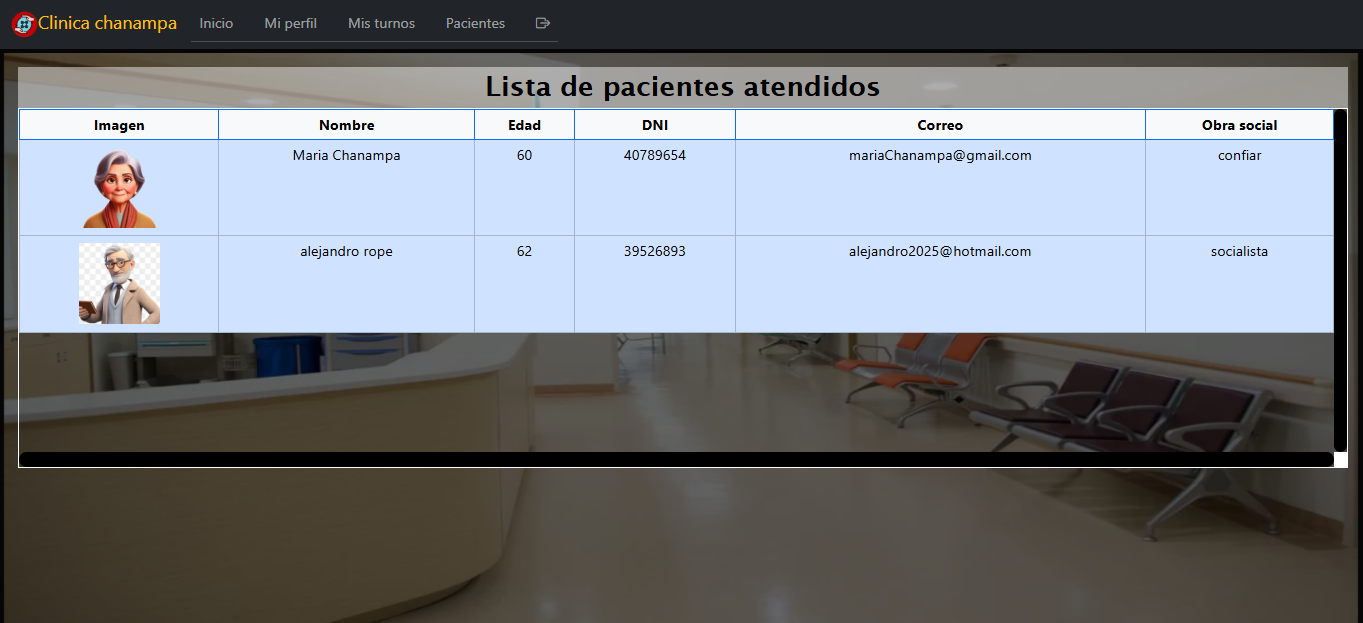
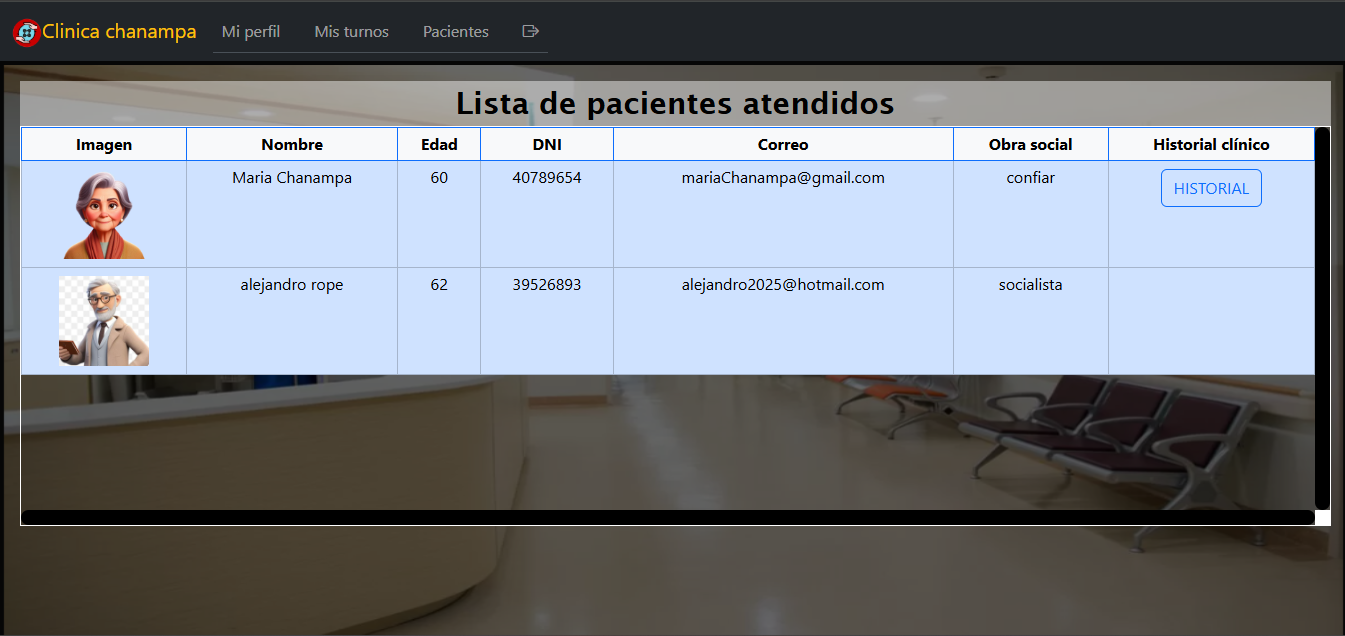
Modificaciones finales

diff --git a/src/app/pages/informes/informes.component.ts b/src/app/pages/informes/informes.component.ts
@@ -236,6 +236,11 @@ export class InformesComponent {
     if(logs)
     {
 
+      const margenX = 5;
+      let posY = 100;
+      const altoLinea = 10;
+      const altoPagina = 290; // A4 es 297mm, dejamos margen
+
       const doc = new jsPDF();
 
       const titulo: string = "Registro de logs de usuarios al sistema";
@@ -246,7 +251,7 @@ export class InformesComponent {
 
       for(let log of this.listaLogs)
       {
-        lineas.push("Usuario: " + log.usuario.nombre + " " + log.usuario.apellido + " (" + log.usuario.tipo + ") | " + log.fecha + ":" + log.hora);
+        lineas.push("Usuario: " + log.usuario.nombre + " " + log.usuario.apellido + " (" + log.usuario.tipo + ") | " + this.ModificarFecha(log.fecha)  + " " + log.hora);
       }
 
       this.convertirImagenUrlABase64(logo).then((imagenBase64) => {
@@ -261,7 +266,17 @@ export class InformesComponent {
           // Texto con salto de línea
           doc.setFontSize(20);
           doc.setFont('Arial','normal','bold');
-          doc.text(lineas, 5, 100); // x = 5, y = 100 (esto hara que el texto quede debajo de la imagen)
+          for(let linea of lineas)
+          {
+            if(posY > altoPagina)
+            {
+              doc.addPage();
+              posY = 20;
+            }
+
+            doc.text(linea, margenX, posY); // x = 5, y = 100 (esto hara que el texto quede debajo de la imagen)
+            posY += altoLinea;
+          }
 
           // Guardar el PDF
           doc.save('logs_sistema_clinica_chanampa.pdf');
@@ -302,6 +317,11 @@ export class InformesComponent {
       });  
 
     }
+  }
+
+  ModificarFecha(fecha: string) : string
+  {
+    return fecha.split("-")[2] + "/" + fecha.split("-")[1] + "/" + fecha.split("-")[0];
   }
 
   // Función para convertir una imagen a base64
@@ -669,49 +689,6 @@ export class InformesComponent {
         });
       }
     }
-
-    // const ctx = this.graficoCanvas.nativeElement as HTMLCanvasElement;
-
-    // if(!this.graficoCanvas) return;
-
-    // const ctx = this.graficoCanvas.nativeElement.getContext('2d');
-
-    // conteo de cantidad de turnos por especialidad
-    
-        // const imagenesFiltradas = this.imagenes.filter(img => img.cantidad_likes > 0);  
-        // const labels = this.listaTurnos.map(img => `${img.}`);
-        // const data = imagenesFiltradas.map(img => img.cantidad_likes);
-    
-        // new Chart(ctx, {
-        //     type: 'pie',
-        //     data: {
-        //       labels: especialidades,
-        //       datasets: [
-        //         {
-        //           label: 'Cantidad de turnos',
-        //           data: cantidades,
-        //           backgroundColor: ['#4e73df', '#1cc88a', '#36b9cc', '#f6c23e']
-        //         }
-        //       ]
-        //     },
-        //     options: {
-        //       responsive: true,
-        //       plugins: {
-        //         datalabels: {
-        //           color: 'black',
-        //           font: {
-        //             weight: 'bold',
-        //             size: 20,
-        //           }
-        //         },
-        //         legend: {
-        //           position: 'bottom'
-        //         }
-        //       }
-        //     },
-        //     plugins: [ChartDataLabels]
-        //   });
-
   }
   
   onMouseEnter(numberButton: number = 1)

diff --git a/src/app/pages/registro/registro.component.html b/src/app/pages/registro/registro.component.html
@@ -38,15 +38,21 @@
                 }
                 @else if(this.db.tipoUsuario == "administrador")
                 {
-                    <button class="contenedor-especialista registrosAdmin" routerLink="/registros/registro-especialista">
-                        <div class="emoji">🧑🏽⚕</div>ESPECIALISTA
-                    </button>
-                    <button class="contenedor-paciente registrosAdmin" routerLink="/registros/registro-paciente">
-                        <div class="emoji">😷</div>PACIENTE
-                    </button>
-                    <button class="contenedor-paciente registrosAdmin" routerLink="/registros/registro-administrador">
-                        <div class="emoji">🧑🏽💻</div>ADMINISTRADOR
-                    </button>
+                    <div [@routeAnimations]="prepareRoute(outlet)" class="router-container">
+                        <div class="botones-navegacion">
+                            <button class="contenedor-especialista registrosAdmin" (click)="irAregistroESP()">
+                                <div class="emoji">🧑🏽⚕</div>ESPECIALISTA
+                            </button>
+                            <button class="contenedor-paciente registrosAdmin" (click)="irAregistroPAC()">
+                                <div class="emoji">😷</div>PACIENTE
+                            </button>
+                            <button class="contenedor-paciente registrosAdmin" (click)="irAregistroAdm()">
+                                <div class="emoji">🧑🏽💻</div>ADMINISTRADOR
+                            </button>
+                        </div>
+    
+                        <router-outlet #outlet="outlet"></router-outlet>
+                    </div>
                 }
             </div>
             <footer style="margin-top: 2rem;">

diff --git a/src/app/pages/historial-clinico/historial-clinico.component.ts b/src/app/pages/historial-clinico/historial-clinico.component.ts
@@ -277,6 +277,11 @@ export class HistorialClinicoComponent {
     const formato = fecha.toISOString().split('T')[0]; // yyyy-mm-dd
     const hora = hoy.toTimeString().substring(0, 5); // Formato "HH:MM"
 
+    const margenX = 20;
+    let posY = 120;
+    const altoLinea = 10;
+    const altoPagina = 290; // A4 es 297mm, dejamos margen
+
     const doc = new jsPDF();
 
     let lista_historial_medico : any[] = [];
@@ -312,6 +317,7 @@ export class HistorialClinicoComponent {
         {
           lineas.push(clave.toUpperCase() + ': ' + historial_propio.datoDinamico[clave]);
         }
+        lineas.push("");
       }
 
       lineas.push("");
@@ -332,7 +338,17 @@ export class HistorialClinicoComponent {
           // Texto con salto de línea
           doc.setFontSize(20);
           doc.setFont('Arial','normal','bold');
-          doc.text(lineas, 20, 100); // x = 20, y = 100 (esto hara que el texto quede debajo de la imagen)
+          for(let linea of lineas)
+          {
+            if(posY > altoPagina)
+            {
+              doc.addPage();
+              posY = 20;
+            }
+
+            doc.text(linea, margenX, posY); // x = 5, y = 100 (esto hara que el texto quede debajo de la imagen)
+            posY += altoLinea;
+          }
 
           // Guardar el PDF
           doc.save('historial_medico.pdf');

diff --git a/src/app/pages/mi-perfil/mi-perfil.component.html b/src/app/pages/mi-perfil/mi-perfil.component.html
@@ -59,7 +59,8 @@
                                 }                                
                                 <label>Primero seleccione la duración de los turnos:</label>
                                 <select class="form-select" aria-label="Duración de consulta" id="duracionElegida">
-                                <option selected value="30">30 min</option>
+                                <option selected value="0">0 min</option>
+                                <option value="30">30 min</option>
                                 <option value="60">60 min</option>
                                 <option value="90">90 min</option>
                                 <option value="120">120 min</option>

diff --git a/src/app/pages/registro/registro.component.ts b/src/app/pages/registro/registro.component.ts
@@ -65,6 +65,11 @@ export class RegistroComponent {
     this.router.navigate(['registro/registro-paciente']);
   }
 
+  irAregistroAdm()
+  {
+    this.router.navigate(['registro/registro-administrador']);
+  }
+
   onMouseEnter(animation : string)
   {
     switch(animation)

diff --git a/README.md b/README.md
@@ -18,18 +18,6 @@
 
 ## Alumna: Macarena nicole chanampa 
 
-## ÍNDICE
-- [PáGINA DE INICIO](#paginaInicio)
-- [PÁGINA DE INICIO DE SESIÓN](#paginaInicioSesion)
-- [PáGINA DE REGISTRO](#paginaRegistro)
-- [REGISTRO DE ESPECIALISTAS](#registroEspecialistas)
-- [REGISTRO DE PACIENTES](#registroPacientes)
-- [SECCION PACIENTE](#seccionPaciente)
-- [SECCION ESPECIALISTA](#seccionEspecialista)
-- [SECCION ADMINISTRADOR](#seccionAdministrador)
-
----
-
 ## PáGINA DE INICIO
 
 ### Desde aquí las personas son recibidas e indicadas a realizar ya sea el inicio de sesión o el registro para acceder a la clínica online.
@@ -73,12 +61,18 @@
 ### Desde está sección se podran visualizar los datos del paciente que ingreso. Como su nombre, apellido, imágenes, etc.
 ![PaginaRegistroEspecialistas](./src/assets/perfil_paciente.png)
 
+## HISTORIAL CLINICO
+
+### al presionar el boton, el paciente puede descargar todo el historial clinico de una especialidad o descargar el historial clinico de un turno en particular.
+![HistorialClinico](./src/assets/paciente_historial_clinico.gif)
+
 ## SOLICITAR TURNO
 ## Desde está sección se puede solicitar un turno, eligiendo especialidad, especialista, día disponible del especialista elegido y un horario disponible
 ![PaginaSolicitarTurno](./src/assets/paciente_solicitar_turno_g.gif)
 
 ## MIS TURNOS
-
+### Desde está seccion el paciente puede ver los turnos que tiene y saber su estado y puede cancelar un turno en particular.
+![PaginaMisTurnos](./src/assets/paciente_turnos.png)
 
 ---
 
@@ -89,6 +83,10 @@
 ![PaginaRegistroEspecialistas](./src/assets/perfil_especialista.png)
 ![PaginaRegistroEspecialistas](./src/assets/perfil_especialista_02.png)
 
+## HORARIOS
+### Desde está seccion que se encuentra en el perfil kel especialista puede agregar o actualizar sus horarios
+![HorariosEspecialista](./src/assets/especialista_horarios.gif)
+
 ## MIS TURNOS
 ### Desde está seccion el especialista puede ver los turnos que tiene y saber su estado y lo que puede hacer, ya sea, cancelarlo, rechazarlo o aceptarlo.
 ![PaginaMisTurnos](./src/assets/especialista_turnos.png)
@@ -96,6 +94,7 @@
 ## PACIENTES
 ### Desde está seccion el especialista visualiza los datos de los pacientes a los que atendio al menos una ves.
 ![PaginaListaPacientes](./src/assets/especialista_pacientes.png)
+
 
 ---
 
@@ -120,5 +119,10 @@
 
 ## Desde está sección el administrador visualiza los administradores, especialistas y pacientes registrados. También puede habilitar o deshabilitar especialistas.
 ![PaginaListaUsuarios](./src/assets/adm_usuarios.gif)
+
+## INFORMES
+
+### Desde está sección el administrador puede visualizar una lista de logs de los usuarios que ingresaron al sistema, y también gráficos.
+![PaginaInformes](./src/assets/adm_informes.png)
 
 ---
